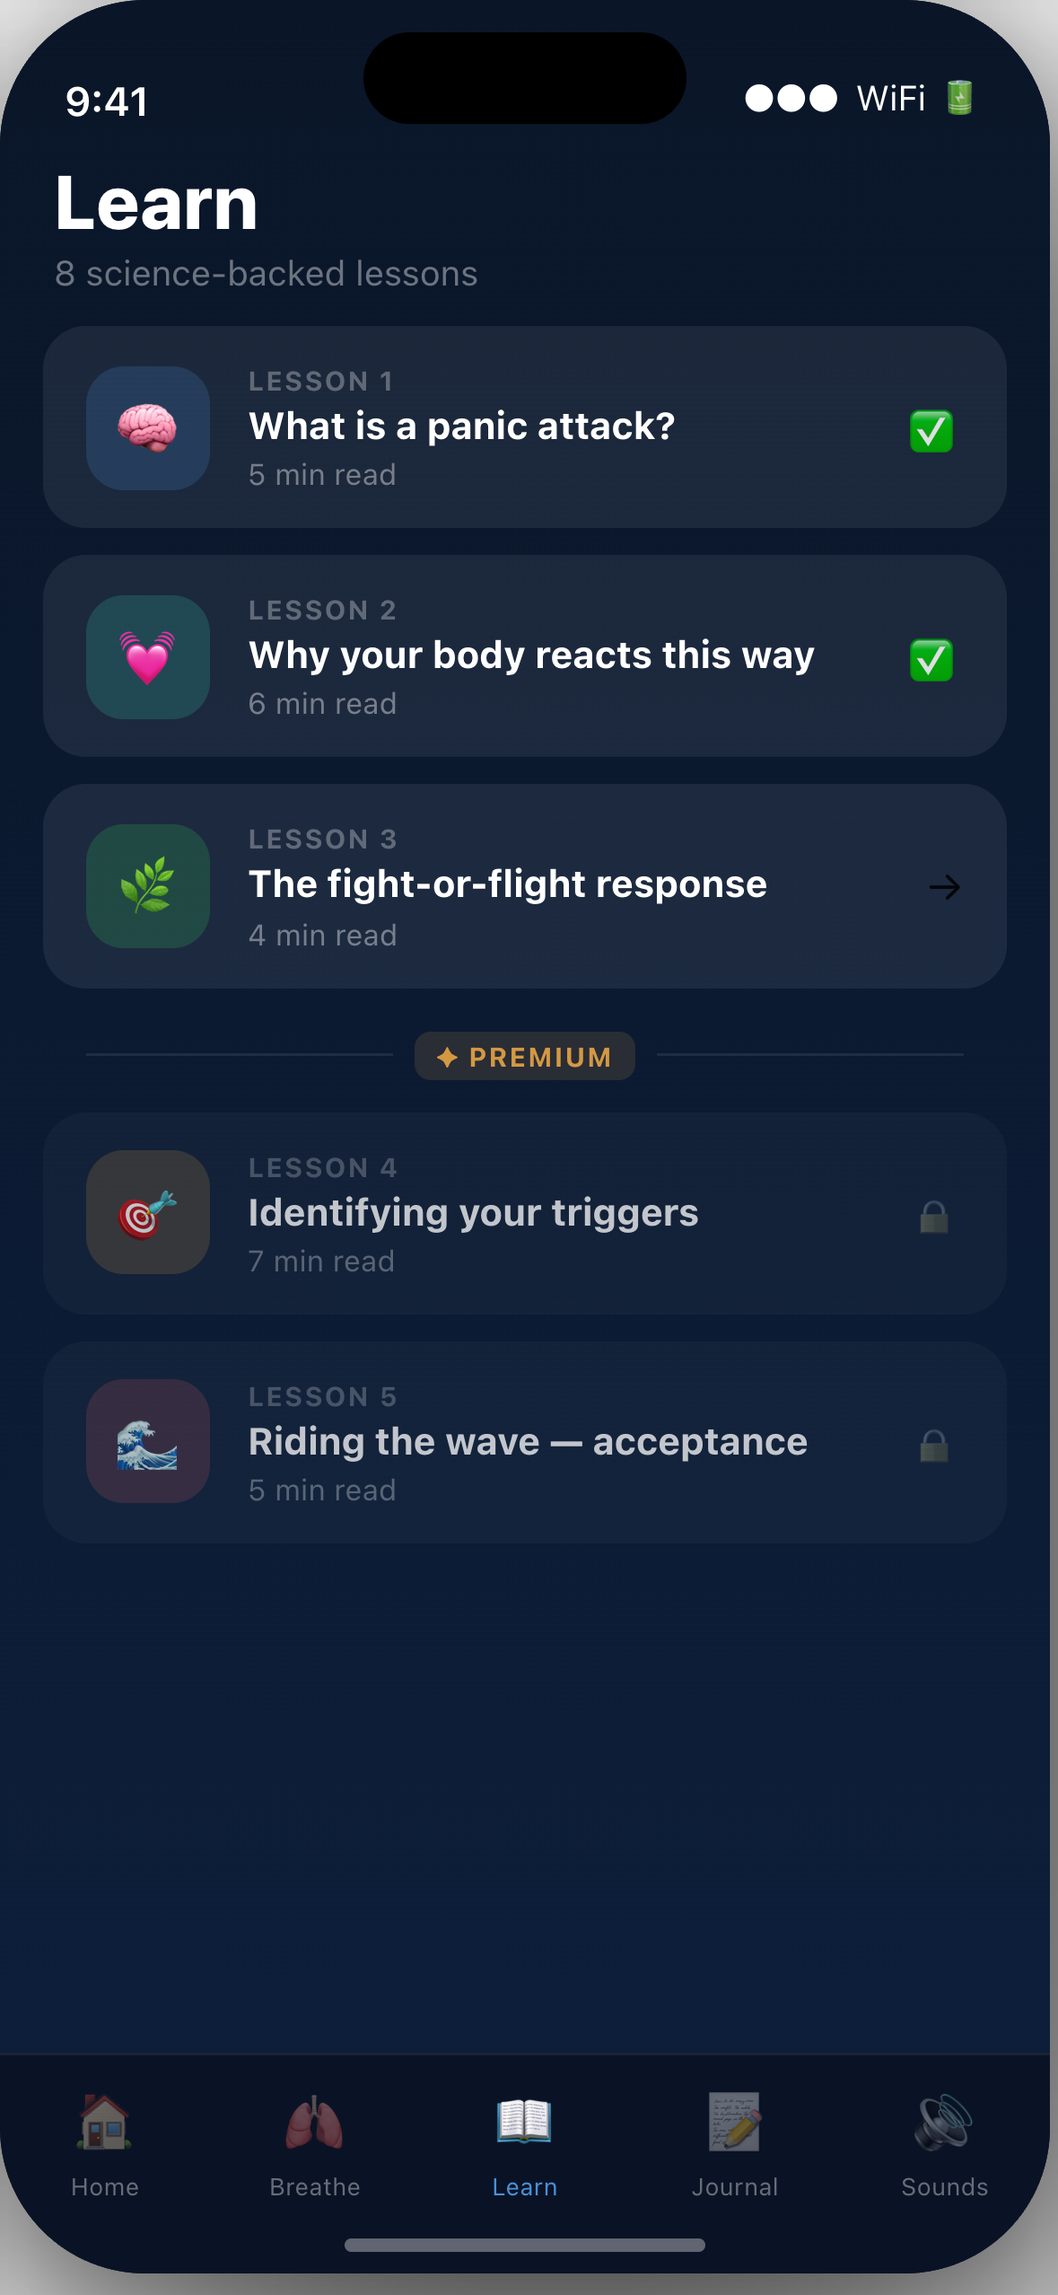
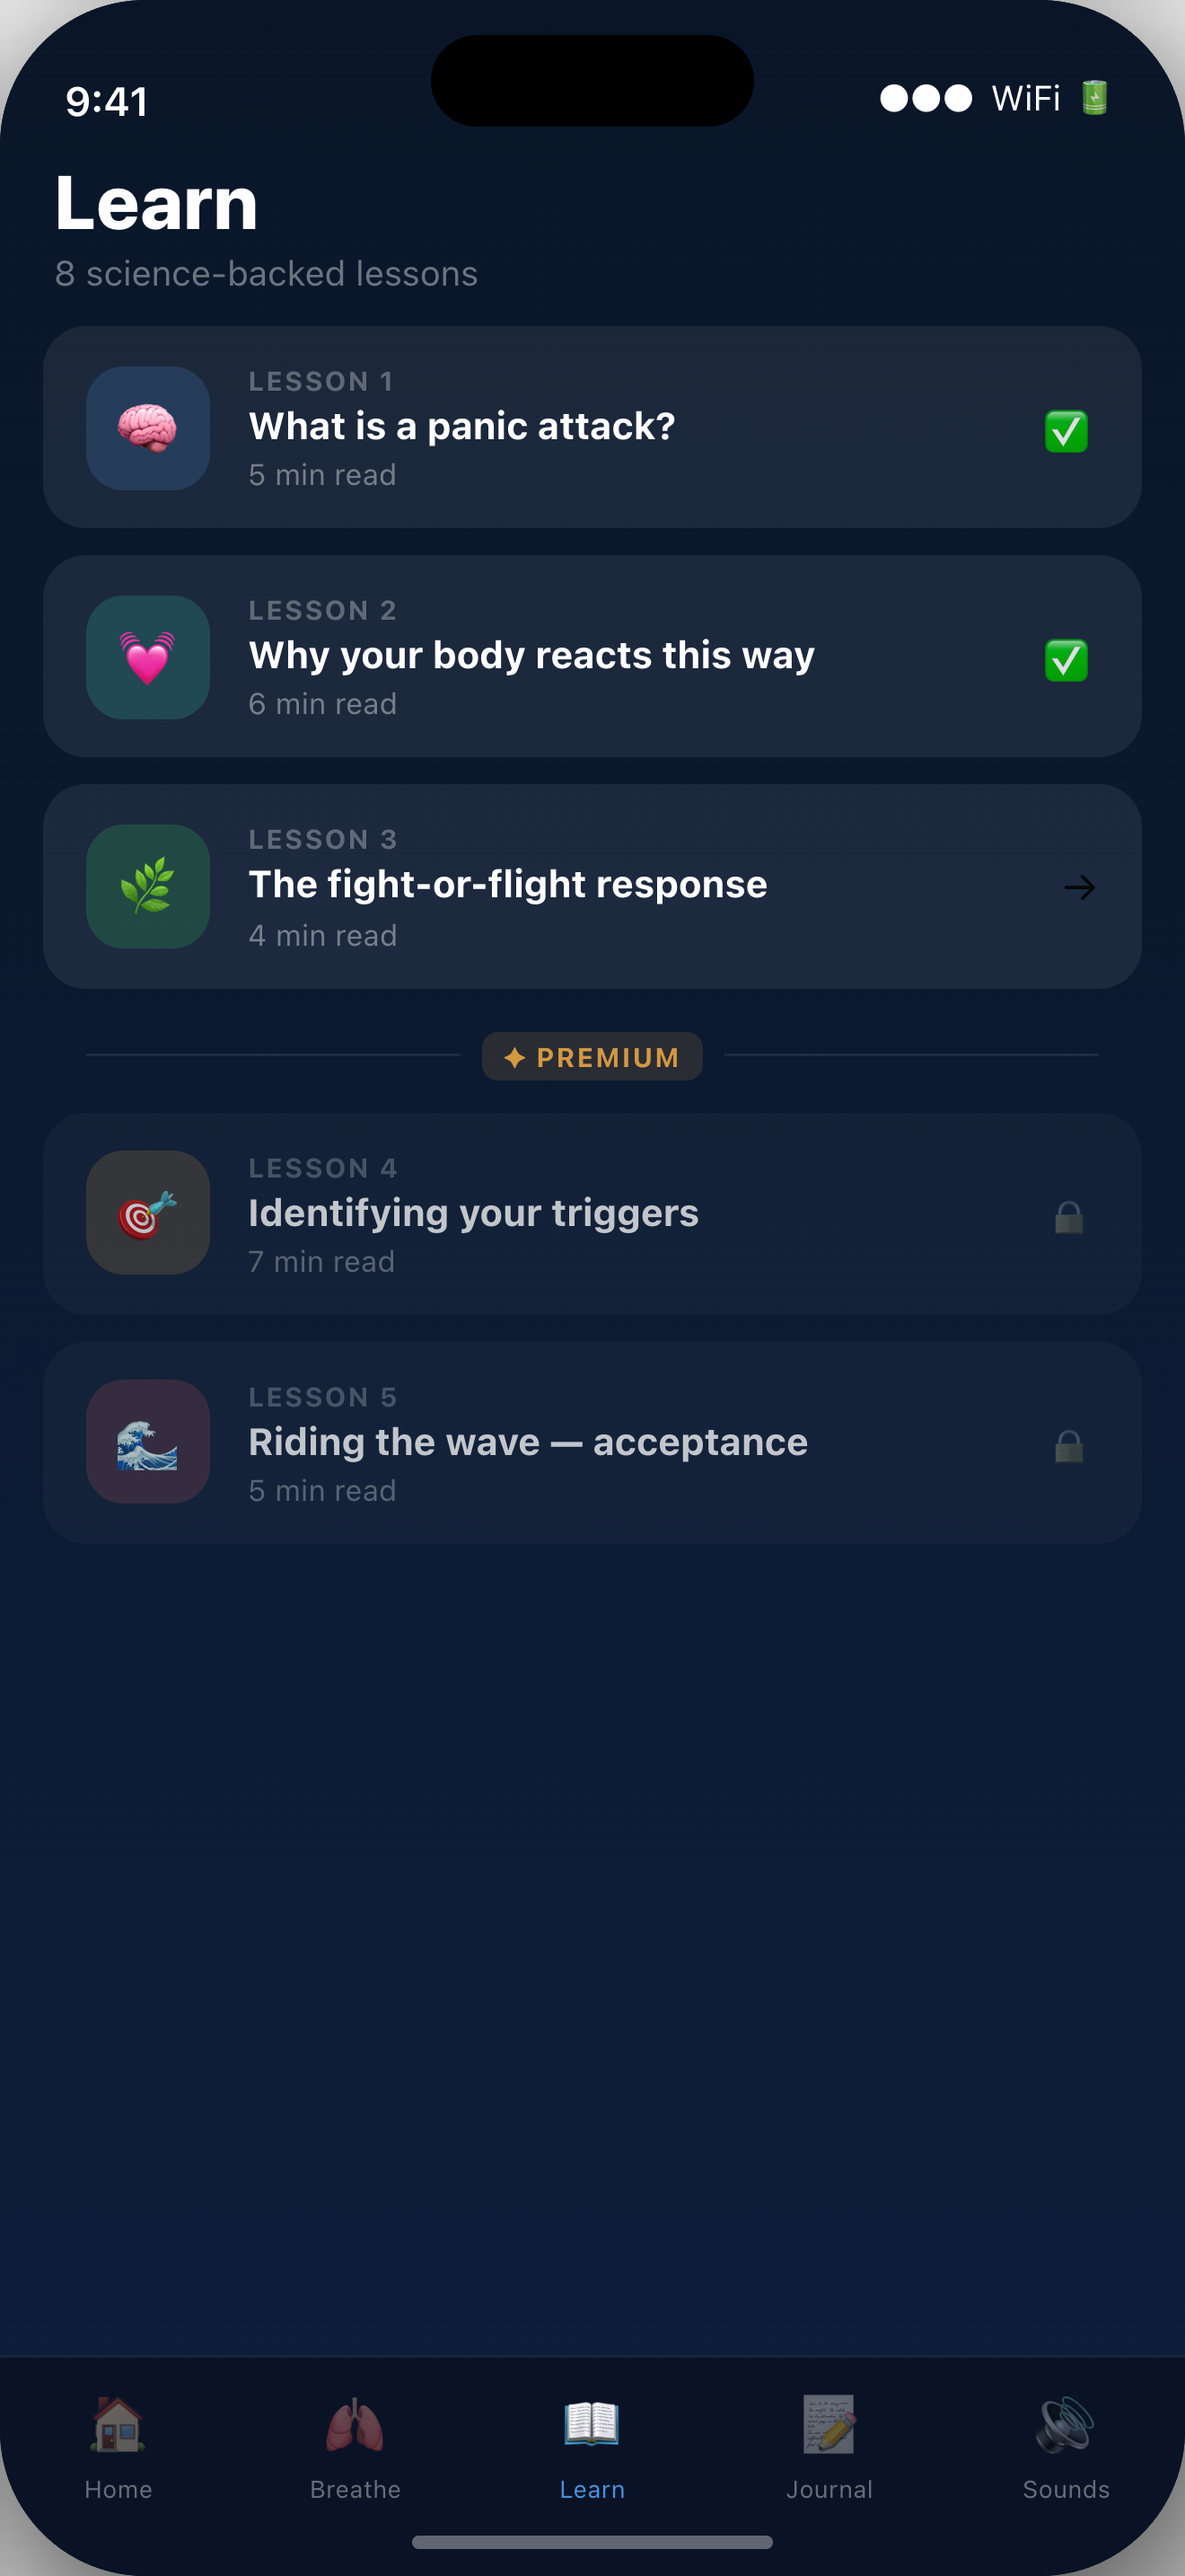
Update screenshots to 1320×2868 App Store 6.9" format
- capture.js: --appstore now outputs 440×956 @3x = 1320×2868px (Apple required)
- device-frame.css: device shell scales with viewport (vw/vh units)
- All mockup viewports: width=device-width instead of fixed 390px
- Re-render all 10 screenshots (web 780×1688 + App Store 1320×2868)

diff --git a/_shared/capture.js b/_shared/capture.js
@@ -1,14 +1,14 @@
 #!/usr/bin/env node
 // capture.js — render mockup HTML files to PNG screenshots
 // Usage: node capture.js <AppName> [--appstore]
-//   Default: web screenshots (390x844 @2x, with device frame if present)
-//   --appstore: App Store size (393x852 @3x = 1179x2556px)
+//   Default:    web screenshots  (390×844  @2x  = 780×1688px)
+//   --appstore: App Store 6.9"   (440×956  @3x  = 1320×2868px) — required by Apple
 
 const puppeteer = require('puppeteer');
 const path = require('path');
 const fs = require('fs');
 
-const appName = process.argv[2];
+const appName    = process.argv[2];
 const isAppStore = process.argv.includes('--appstore');
 
 if (!appName) {
@@ -28,9 +28,11 @@ if (!fs.existsSync(mockupsDir)) {
 fs.mkdirSync(outputDir, { recursive: true });
 
 // Viewport config
+// --appstore: iPhone 16 Pro Max 6.9" — 440×956 logical @3x = 1320×2868px (Apple required size)
+// default:    iPhone 14 logical @2x = 780×1688px (web use)
 const viewport = isAppStore
-  ? { width: 393, height: 852, deviceScaleFactor: 3 }  // 1179×2556 output
-  : { width: 390, height: 844, deviceScaleFactor: 2 };  // 780×1688 output
+  ? { width: 440, height: 956, deviceScaleFactor: 3 }   // 1320×2868 output
+  : { width: 390, height: 844, deviceScaleFactor: 2 };   // 780×1688 output
 
 (async () => {
   const browser = await puppeteer.launch({
@@ -48,7 +50,7 @@ const viewport = isAppStore
     process.exit(0);
   }
 
-  console.log(`Capturing ${mockups.length} mockups for ${appName}...`);
+  console.log(`Capturing ${mockups.length} mockups for ${appName} (${isAppStore ? 'App Store 6.9"' : 'web'})...`);
 
   for (const file of mockups) {
     const page = await browser.newPage();
@@ -64,9 +66,8 @@ const viewport = isAppStore
     await page.screenshot({ path: outputFile, fullPage: false, omitBackground: true });
     await page.close();
 
-    const { width, height } = viewport;
-    const actualW = width * viewport.deviceScaleFactor;
-    const actualH = height * viewport.deviceScaleFactor;
+    const actualW = viewport.width  * viewport.deviceScaleFactor;
+    const actualH = viewport.height * viewport.deviceScaleFactor;
     console.log(`  ✓ ${file} → ${outputFile.split('/').pop()} (${actualW}×${actualH}px)`);
   }
 

diff --git a/_shared/device-frame.css b/_shared/device-frame.css
@@ -6,8 +6,8 @@
      .frame-flat    — no shadow (for App Store captures) */
 
 .device-root {
-  width: 390px;
-  height: 844px;
+  width: 100vw;
+  height: 100vh;
   display: flex;
   align-items: center;
   justify-content: center;
@@ -16,9 +16,10 @@
 
 .device-shell {
   position: relative;
-  width: 390px;
-  height: 844px;
-  border-radius: 54px;
+  width: 100vw;
+  height: 100vh;
+  /* Corner radius scales with width: ~13.8% of width matches physical phone */
+  border-radius: min(54px, 13.8vw);
   background: #1C1C1E;
   overflow: hidden;
   /* Subtle bezel shine */
@@ -31,14 +32,16 @@
   filter: drop-shadow(0 40px 80px rgba(0,0,0,0.7)) drop-shadow(0 8px 20px rgba(0,0,0,0.4));
 }
 
-/* Dynamic Island */
+/* Dynamic Island — scales with viewport width */
 .device-island {
   position: absolute;
-  top: 12px;
+  top: 1.4vh;
   left: 50%;
   transform: translateX(-50%);
-  width: 120px;
-  height: 34px;
+  width: 30vw;
+  max-width: 120px;
+  height: 4vh;
+  max-height: 34px;
   background: #000;
   border-radius: 20px;
   z-index: 10;
@@ -52,13 +55,14 @@
   overflow: hidden;
 }
 
-/* Home indicator */
+/* Home indicator — scales with viewport */
 .device-indicator {
   position: absolute;
-  bottom: 8px;
+  bottom: 1vh;
   left: 50%;
   transform: translateX(-50%);
-  width: 134px;
+  width: 34vw;
+  max-width: 134px;
   height: 5px;
   background: rgba(255,255,255,0.35);
   border-radius: 3px;

diff --git a/CalmAnchor/mockups/01-home.html b/CalmAnchor/mockups/01-home.html
@@ -2,12 +2,12 @@
 <html lang="en">
 <head>
   <meta charset="UTF-8">
-  <meta name="viewport" content="width=390px, height=844px">
+  <meta name="viewport" content="width=device-width, initial-scale=1.0">
   <link rel="stylesheet" href="../../_shared/device-frame.css">
   <style>
     * { box-sizing: border-box; margin: 0; padding: 0; }
     body {
-      width: 390px; height: 844px; overflow: hidden;
+      width: 100vw; height: 100vh; overflow: hidden;
       background: transparent;
       display: flex; align-items: center; justify-content: center;
       font-family: -apple-system, BlinkMacSystemFont, 'SF Pro Display', sans-serif;

diff --git a/CalmAnchor/mockups/02-sos-breathing.html b/CalmAnchor/mockups/02-sos-breathing.html
@@ -2,12 +2,12 @@
 <html lang="en">
 <head>
   <meta charset="UTF-8">
-  <meta name="viewport" content="width=390px, height=844px">
+  <meta name="viewport" content="width=device-width, initial-scale=1.0">
   <link rel="stylesheet" href="../../_shared/device-frame.css">
   <style>
     * { box-sizing: border-box; margin: 0; padding: 0; }
     body {
-      width: 390px; height: 844px; overflow: hidden;
+      width: 100vw; height: 100vh; overflow: hidden;
       background: transparent;
       display: flex; align-items: center; justify-content: center;
       font-family: -apple-system, BlinkMacSystemFont, 'SF Pro Display', sans-serif;

diff --git a/CalmAnchor/mockups/03-lessons.html b/CalmAnchor/mockups/03-lessons.html
@@ -2,12 +2,12 @@
 <html lang="en">
 <head>
   <meta charset="UTF-8">
-  <meta name="viewport" content="width=390px, height=844px">
+  <meta name="viewport" content="width=device-width, initial-scale=1.0">
   <link rel="stylesheet" href="../../_shared/device-frame.css">
   <style>
     * { box-sizing: border-box; margin: 0; padding: 0; }
     body {
-      width: 390px; height: 844px; overflow: hidden;
+      width: 100vw; height: 100vh; overflow: hidden;
       background: transparent;
       display: flex; align-items: center; justify-content: center;
       font-family: -apple-system, BlinkMacSystemFont, 'SF Pro Display', sans-serif;

diff --git a/CalmAnchor/mockups/04-journal-ai.html b/CalmAnchor/mockups/04-journal-ai.html
@@ -2,12 +2,12 @@
 <html lang="en">
 <head>
   <meta charset="UTF-8">
-  <meta name="viewport" content="width=390px, height=844px">
+  <meta name="viewport" content="width=device-width, initial-scale=1.0">
   <link rel="stylesheet" href="../../_shared/device-frame.css">
   <style>
     * { box-sizing: border-box; margin: 0; padding: 0; }
     body {
-      width: 390px; height: 844px; overflow: hidden;
+      width: 100vw; height: 100vh; overflow: hidden;
       background: transparent;
       display: flex; align-items: center; justify-content: center;
       font-family: -apple-system, BlinkMacSystemFont, 'SF Pro Display', sans-serif;

diff --git a/CalmAnchor/mockups/05-paywall.html b/CalmAnchor/mockups/05-paywall.html
@@ -2,12 +2,12 @@
 <html lang="en">
 <head>
   <meta charset="UTF-8">
-  <meta name="viewport" content="width=390px, height=844px">
+  <meta name="viewport" content="width=device-width, initial-scale=1.0">
   <link rel="stylesheet" href="../../_shared/device-frame.css">
   <style>
     * { box-sizing: border-box; margin: 0; padding: 0; }
     body {
-      width: 390px; height: 844px; overflow: hidden;
+      width: 100vw; height: 100vh; overflow: hidden;
       background: transparent;
       display: flex; align-items: center; justify-content: center;
       font-family: -apple-system, BlinkMacSystemFont, 'SF Pro Display', sans-serif;
